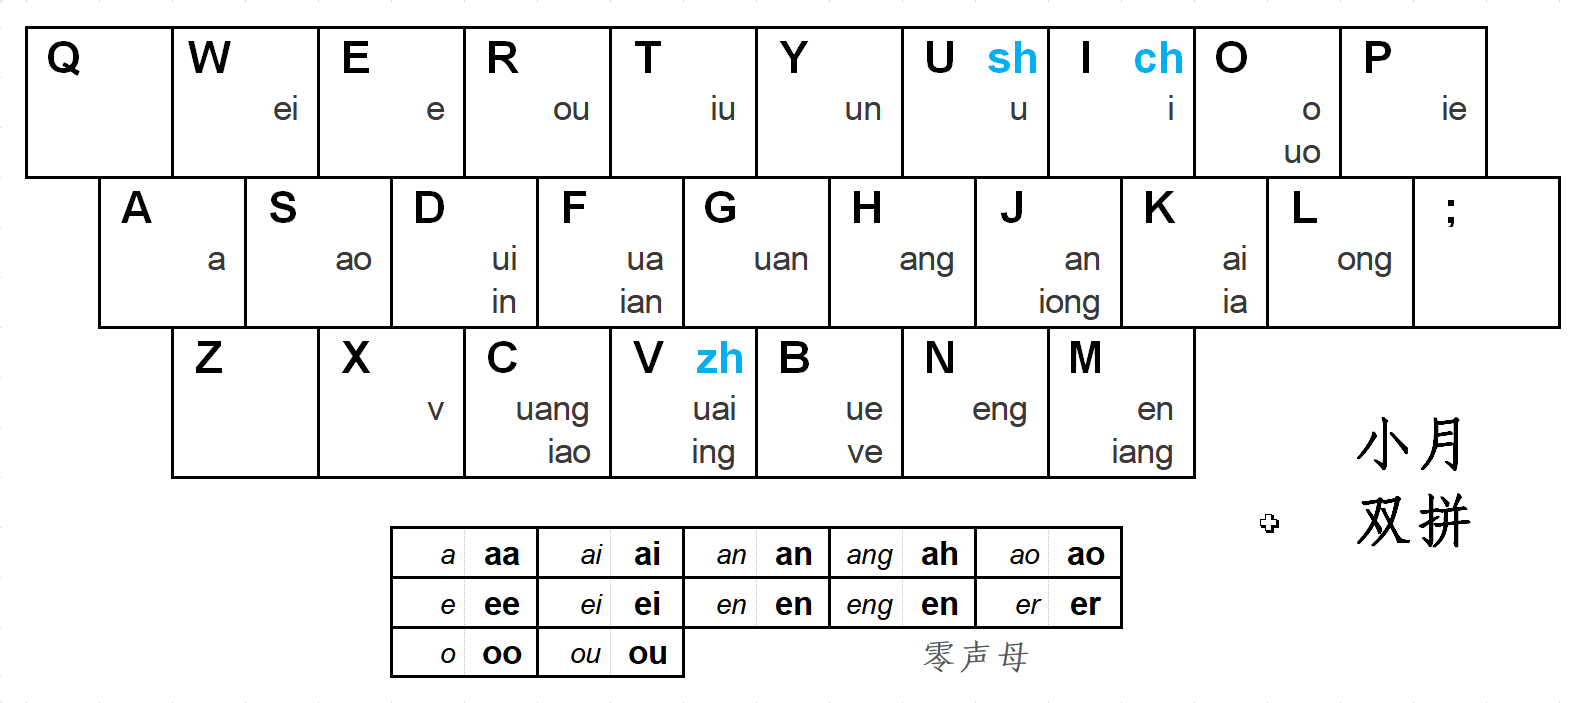
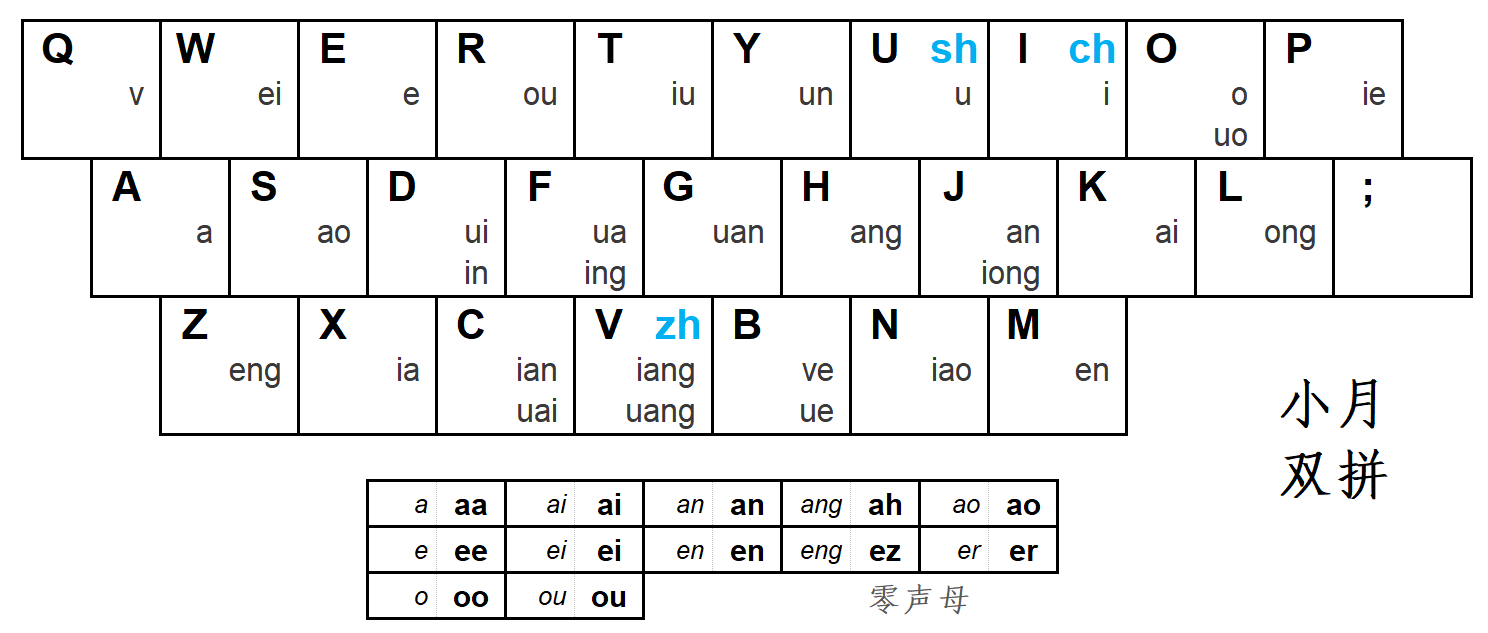
更新小月双拼方案

diff --git a/src/scheme/xiaoyue.js b/src/scheme/xiaoyue.js
@@ -1,4 +1,4 @@
-/** last changed: 2018.12.7 */
+/** last changed: 2019.11.26 */
 
 Shuang.resource.scheme.xiaoyue = {
   id: 'xiaoyue',
@@ -42,30 +42,30 @@ Shuang.resource.scheme.xiaoyue = {
       e: 'e',
       ei: 'w',
       en: 'm',
-      eng: 'n',
+      eng: 'z',
       i: 'i',
-      ia: 'k',
-      ian: 'f',
-      iang: 'm',
-      iao: 'c',
+      ia: 'x',
+      ian: 'c',
+      iang: 'v',
+      iao: 'n',
       ie: 'p',
       iong: 'j',
       in: 'd',
-      ing: 'v',
+      ing: 'f',
       iu: 't',
       o: 'o',
       ong: 'l',
       ou: 'r',
       u: 'u',
       ua: 'f',
-      uai: 'v',
+      uai: 'c',
       uan: 'g',
-      uang: 'c',
+      uang: 'v',
       ue: 'b',
       ui: 'd',
       un: 'y',
       uo: 'o',
-      v: 'x',
+      v: 'q',
       ve: 'b'
     },
     other: {
@@ -77,7 +77,7 @@ Shuang.resource.scheme.xiaoyue = {
       e: 'ee',
       ei: 'ei',
       en: 'en',
-      eng: 'en',
+      eng: 'ez',
       er: 'er',
       o: 'oo',
       ou: 'ou'
